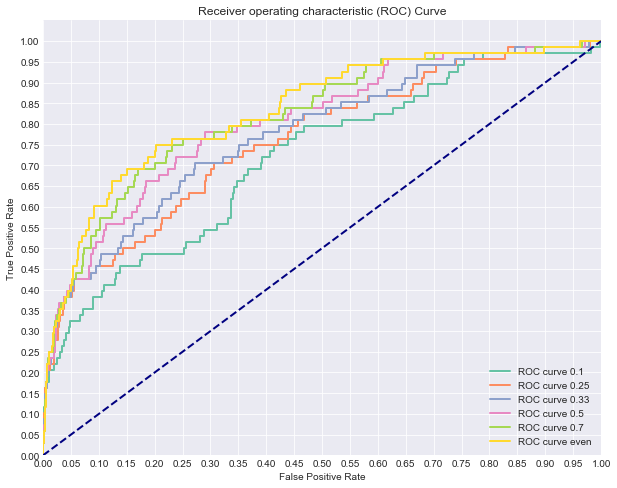
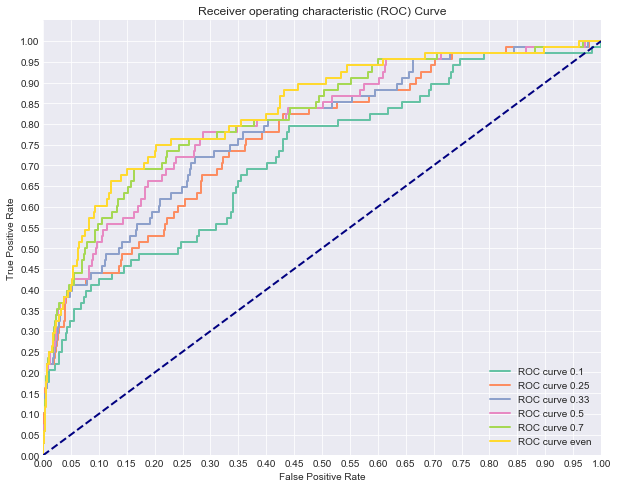
grammar corrections

diff --git a/README.md b/README.md
@@ -4,7 +4,7 @@
 ## Introduction
 
 
-You've learned about precision, recall, ROC curves and AUC as metrics for evaluating the performance of classifiers. With this, you've seen how measuring the performance of classification algorithms is substantially different from that of regression. For example, we briefly discussed a scenario where only 2 in 1000 cases were labelled 'positive'. In such drastically imbalanced cases, even a naive classifier that simply always predicts a 'negative' label would be 99.8% accurate. Moreove, such scenarios are relatively common in areas such as medical conditions or credit card fraud. As such, there has been a lot of work and research regarding class imbalance problems and methods for tuning classification algorithms to better fit these scenarios.
+You've learned about precision, recall, ROC curves and AUC as metrics for evaluating the performance of classifiers. With this, you've seen how measuring the performance of classification algorithms is substantially different from that of regression. For example, we briefly discussed a scenario where only 2 in 1000 cases were labelled 'positive'. In such drastically imbalanced cases, even a naive classifier that simply always predicts a 'negative' label would be 99.8% accurate. Moreover, such scenarios are relatively common in areas such as medical conditions or credit card fraud. As such, there has been a lot of work and research regarding class imbalance problems and methods for tuning classification algorithms to better fit these scenarios.
 
 
 ## Objectives
@@ -35,9 +35,9 @@ class_weight : dict or 'balanced', default: None
        *class_weight='balanced'*
 ```
 
-To investigate this, we'll load a dataset on Mobile App Downloads. The data represents information regarding users to a website and whether or not they downloaded the app for their phone. As you can guess, most vistors don't download the app making it an imbalanced dataset as we had been discussing.
+To investigate this, we'll load a dataset on Mobile App Downloads. The data represents information regarding users to a website and whether or not they downloaded the app for their phone. As you can guess, most visitors don't download the app making it an imbalanced dataset as we had been discussing.
 
-First, we load in the dataset and some applicable packages.
+First, load in the dataset and some applicable packages.
 
 
 ```python
@@ -342,32 +342,32 @@ plt.show()
               fit_intercept=False, intercept_scaling=1, max_iter=100,
               multi_class='warn', n_jobs=None, penalty='l2', random_state=None,
               solver='lbfgs', tol=0.0001, verbose=0, warm_start=False)
-    AUC for 0.1: 0.7173500155717669
+    AUC for 0.1: 0.7200396844121895
     LogisticRegression(C=1000000000000.0, class_weight=None, dual=False,
               fit_intercept=False, intercept_scaling=1, max_iter=100,
               multi_class='warn', n_jobs=None, penalty='l2', random_state=None,
               solver='lbfgs', tol=0.0001, verbose=0, warm_start=False)
-    AUC for 0.25: 0.7609108539934505
+    AUC for 0.25: 0.7661409622408245
     LogisticRegression(C=1000000000000.0, class_weight=None, dual=False,
               fit_intercept=False, intercept_scaling=1, max_iter=100,
               multi_class='warn', n_jobs=None, penalty='l2', random_state=None,
               solver='lbfgs', tol=0.0001, verbose=0, warm_start=False)
-    AUC for 0.33: 0.775459249157709
+    AUC for 0.33: 0.7821191287360444
     LogisticRegression(C=1000000000000.0, class_weight=None, dual=False,
               fit_intercept=False, intercept_scaling=1, max_iter=100,
               multi_class='warn', n_jobs=None, penalty='l2', random_state=None,
               solver='lbfgs', tol=0.0001, verbose=0, warm_start=False)
-    AUC for 0.5: 0.8042310378346751
+    AUC for 0.5: 0.8043891148630157
     LogisticRegression(C=1000000000000.0, class_weight=None, dual=False,
               fit_intercept=False, intercept_scaling=1, max_iter=100,
               multi_class='warn', n_jobs=None, penalty='l2', random_state=None,
               solver='lbfgs', tol=0.0001, verbose=0, warm_start=False)
-    AUC for 0.7: 0.8190018025499948
+    AUC for 0.7: 0.81773423712498
     LogisticRegression(C=1000000000000.0, class_weight=None, dual=False,
               fit_intercept=False, intercept_scaling=1, max_iter=100,
               multi_class='warn', n_jobs=None, penalty='l2', random_state=None,
               solver='lbfgs', tol=0.0001, verbose=0, warm_start=False)
-    AUC for even: 0.8322224686441237
+    AUC for even: 0.8325663451647304
 
 
 
@@ -376,14 +376,14 @@ plt.show()
 
 Hopefully this should make sense; after synthetically resampling our data, we no longer need to lean on penalized class weights in order to improve our model tuning. Since SMOTE recreated our dataset to have a balanced number of positive and negative cases, aggressive weighting schemas such as 10:1, 100:1 or 1000:1 drastically impact our model performance; the data is effectively no longer class imbalanced, so creating the class weights effectively reintroduces the original problem. Overall, our SMOTE unweighted model appears to be the current top performer. In practice, it is up to you the modeler, to make this and other choices when comparing models. For example, you may also wish to tune other parameters in your model such as how to perform regularization.   
 
-As a review, recall that regularization are penalties to a more straightforward problem of minimizing error between our model and its outputs. The most two common regularizations are the l1 lasso and l2 ridge penalties. These add additional complexity to the loss function. In scikit-learn, these can be specified when initializing your regression object as in:
+As a review, recall that regularization are penalties to a more straightforward problem of minimizing error between our model and its outputs. The two most common regularizations are the l1 lasso and l2 ridge penalties. These add additional complexity to the loss function. In scikit-learn, these can be specified when initializing your regression object as in:
 ```logreg = LogisticRegression(penalty='l1')```
 
 The default is to use an l2 penalty, so unless you specified otherwise, that's what you've been using.   
 
-In addition to simply specifying how to regularize the model, you can also specify the amount of regularization. This is controlled through the c parameter wh is class imbalance. For example, here is the ROC curve of various regularization values with no corrections for class imbalance:
+In addition to simply specifying how to regularize the model, you can also specify the amount of regularization. This is controlled through the C parameter. For example, here is the ROC curve of various regularization values with no corrections for class imbalance:
 
-<img src="roc_regularization.png">
+<img src="./images/roc_regularization.png">
 
 As you can see, all of these models perform poorly regardless of the amount of regularization. 
 
